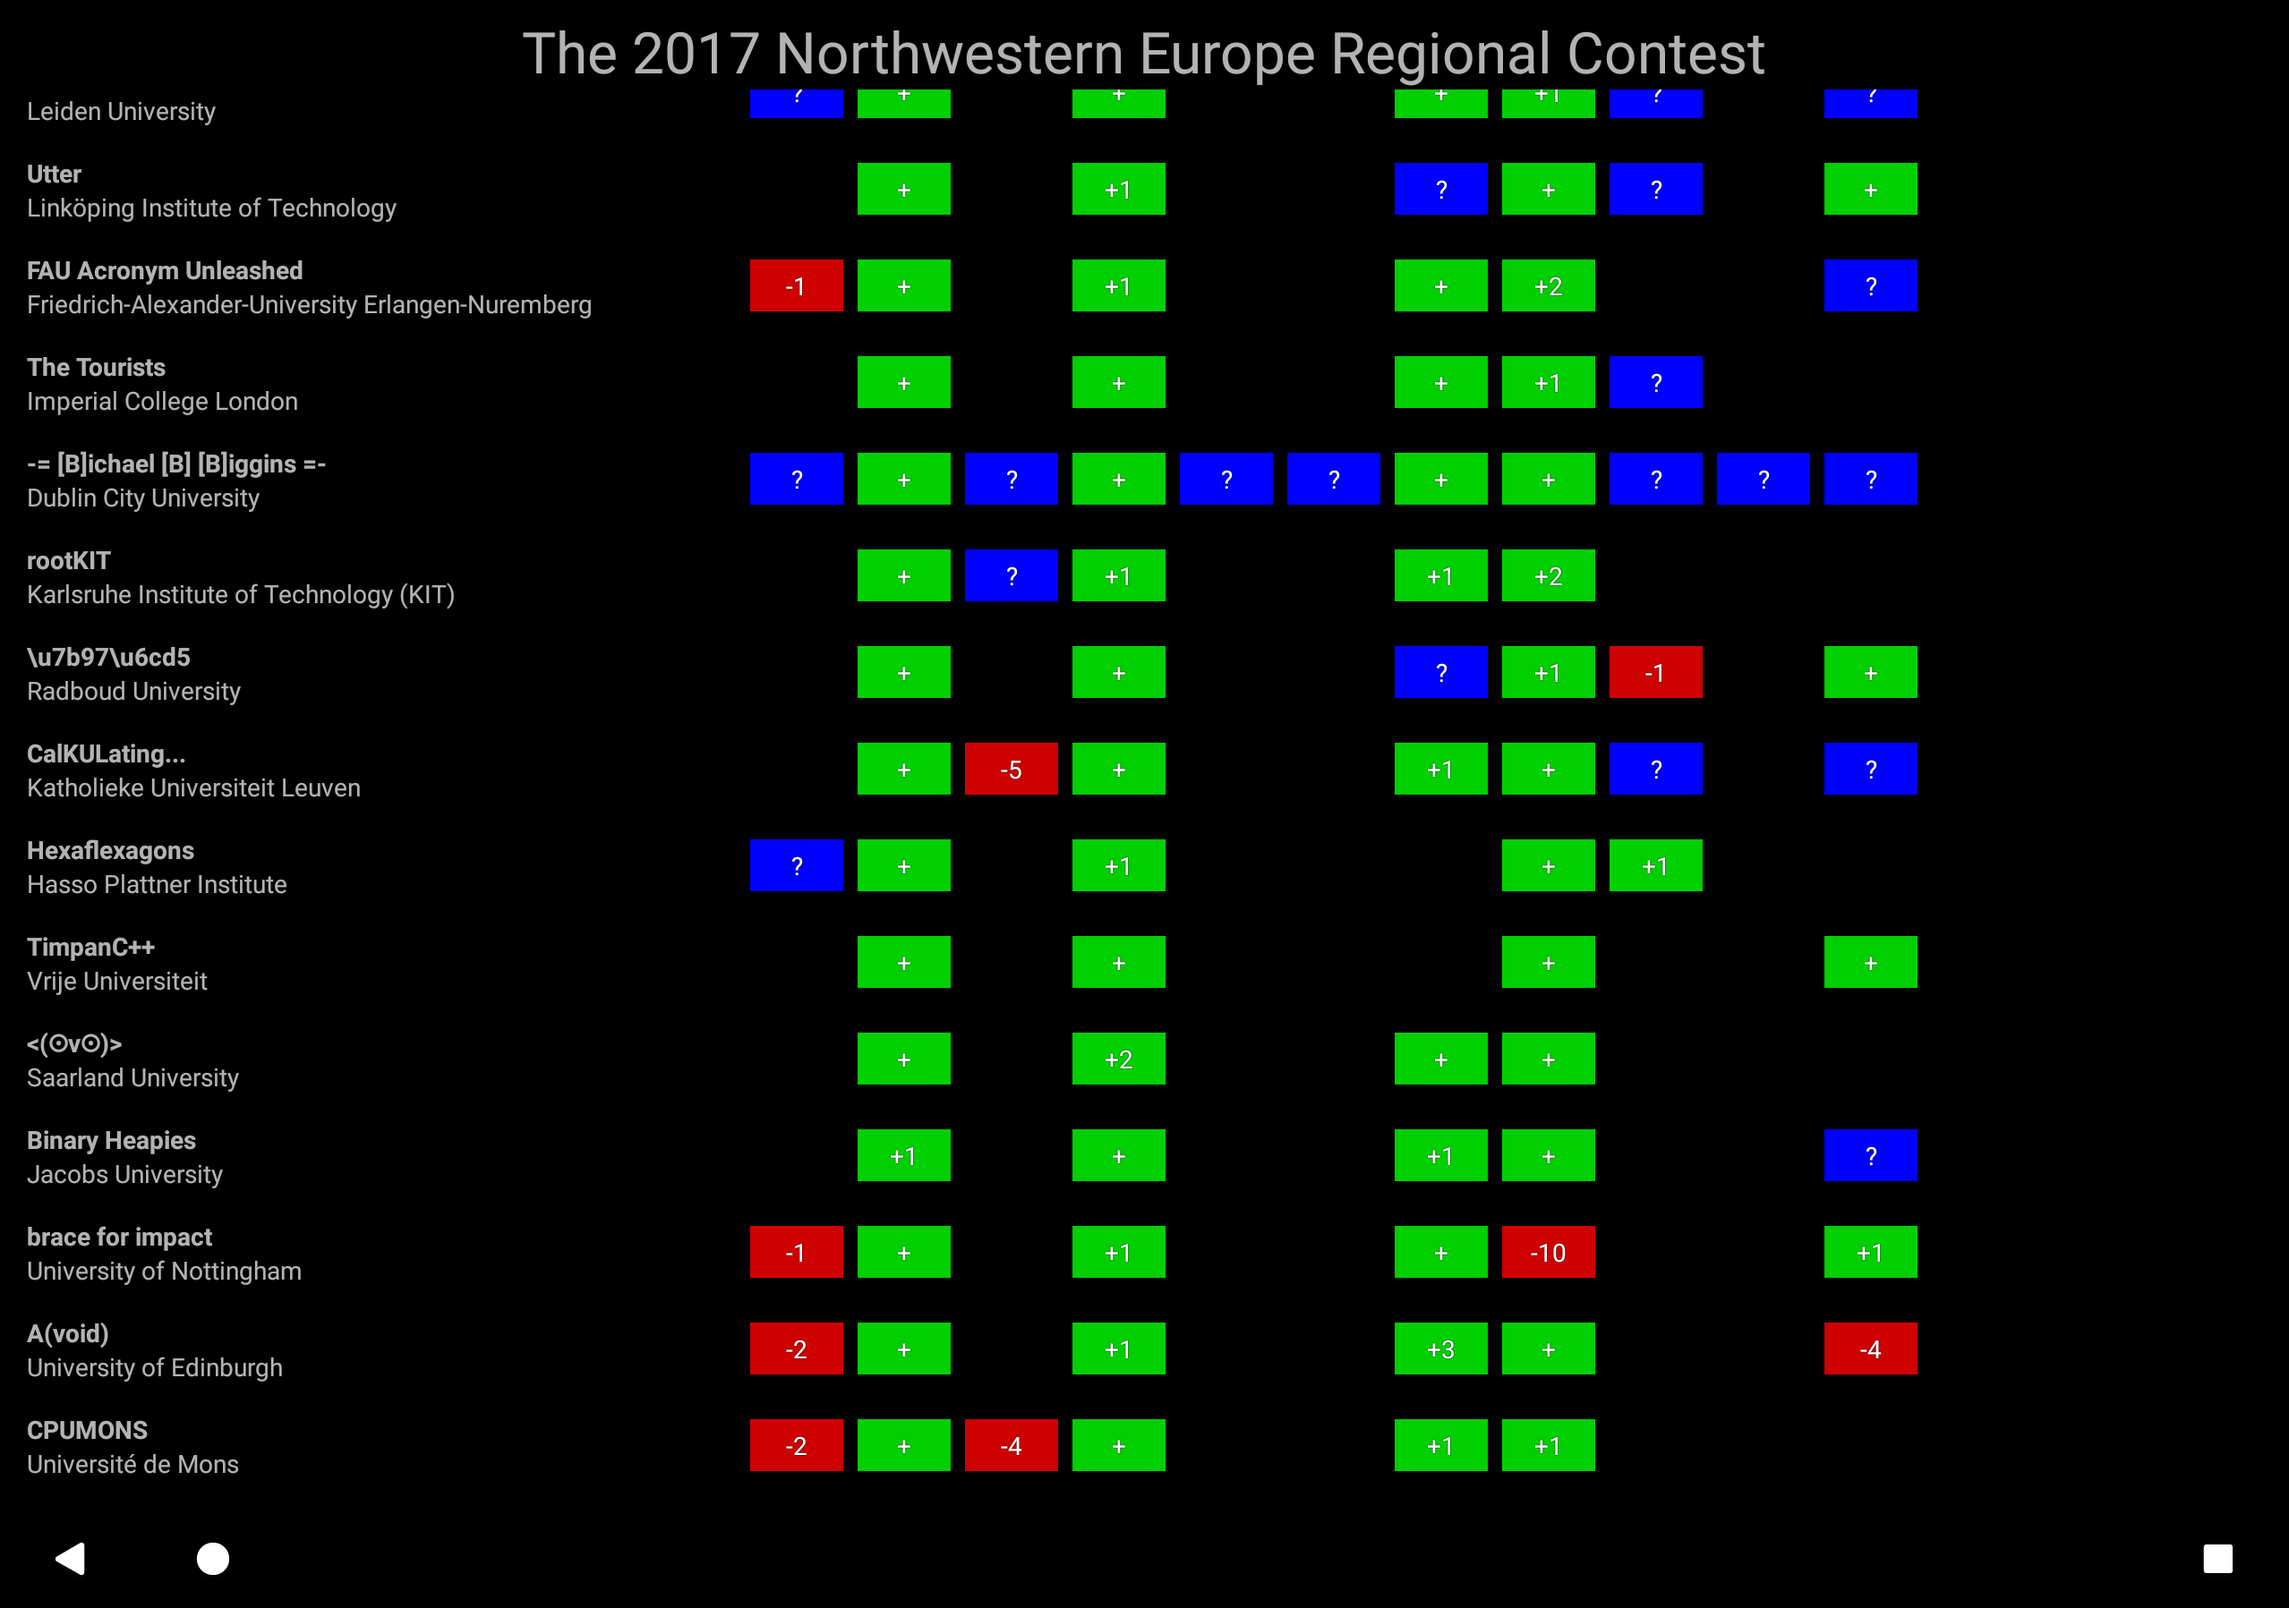
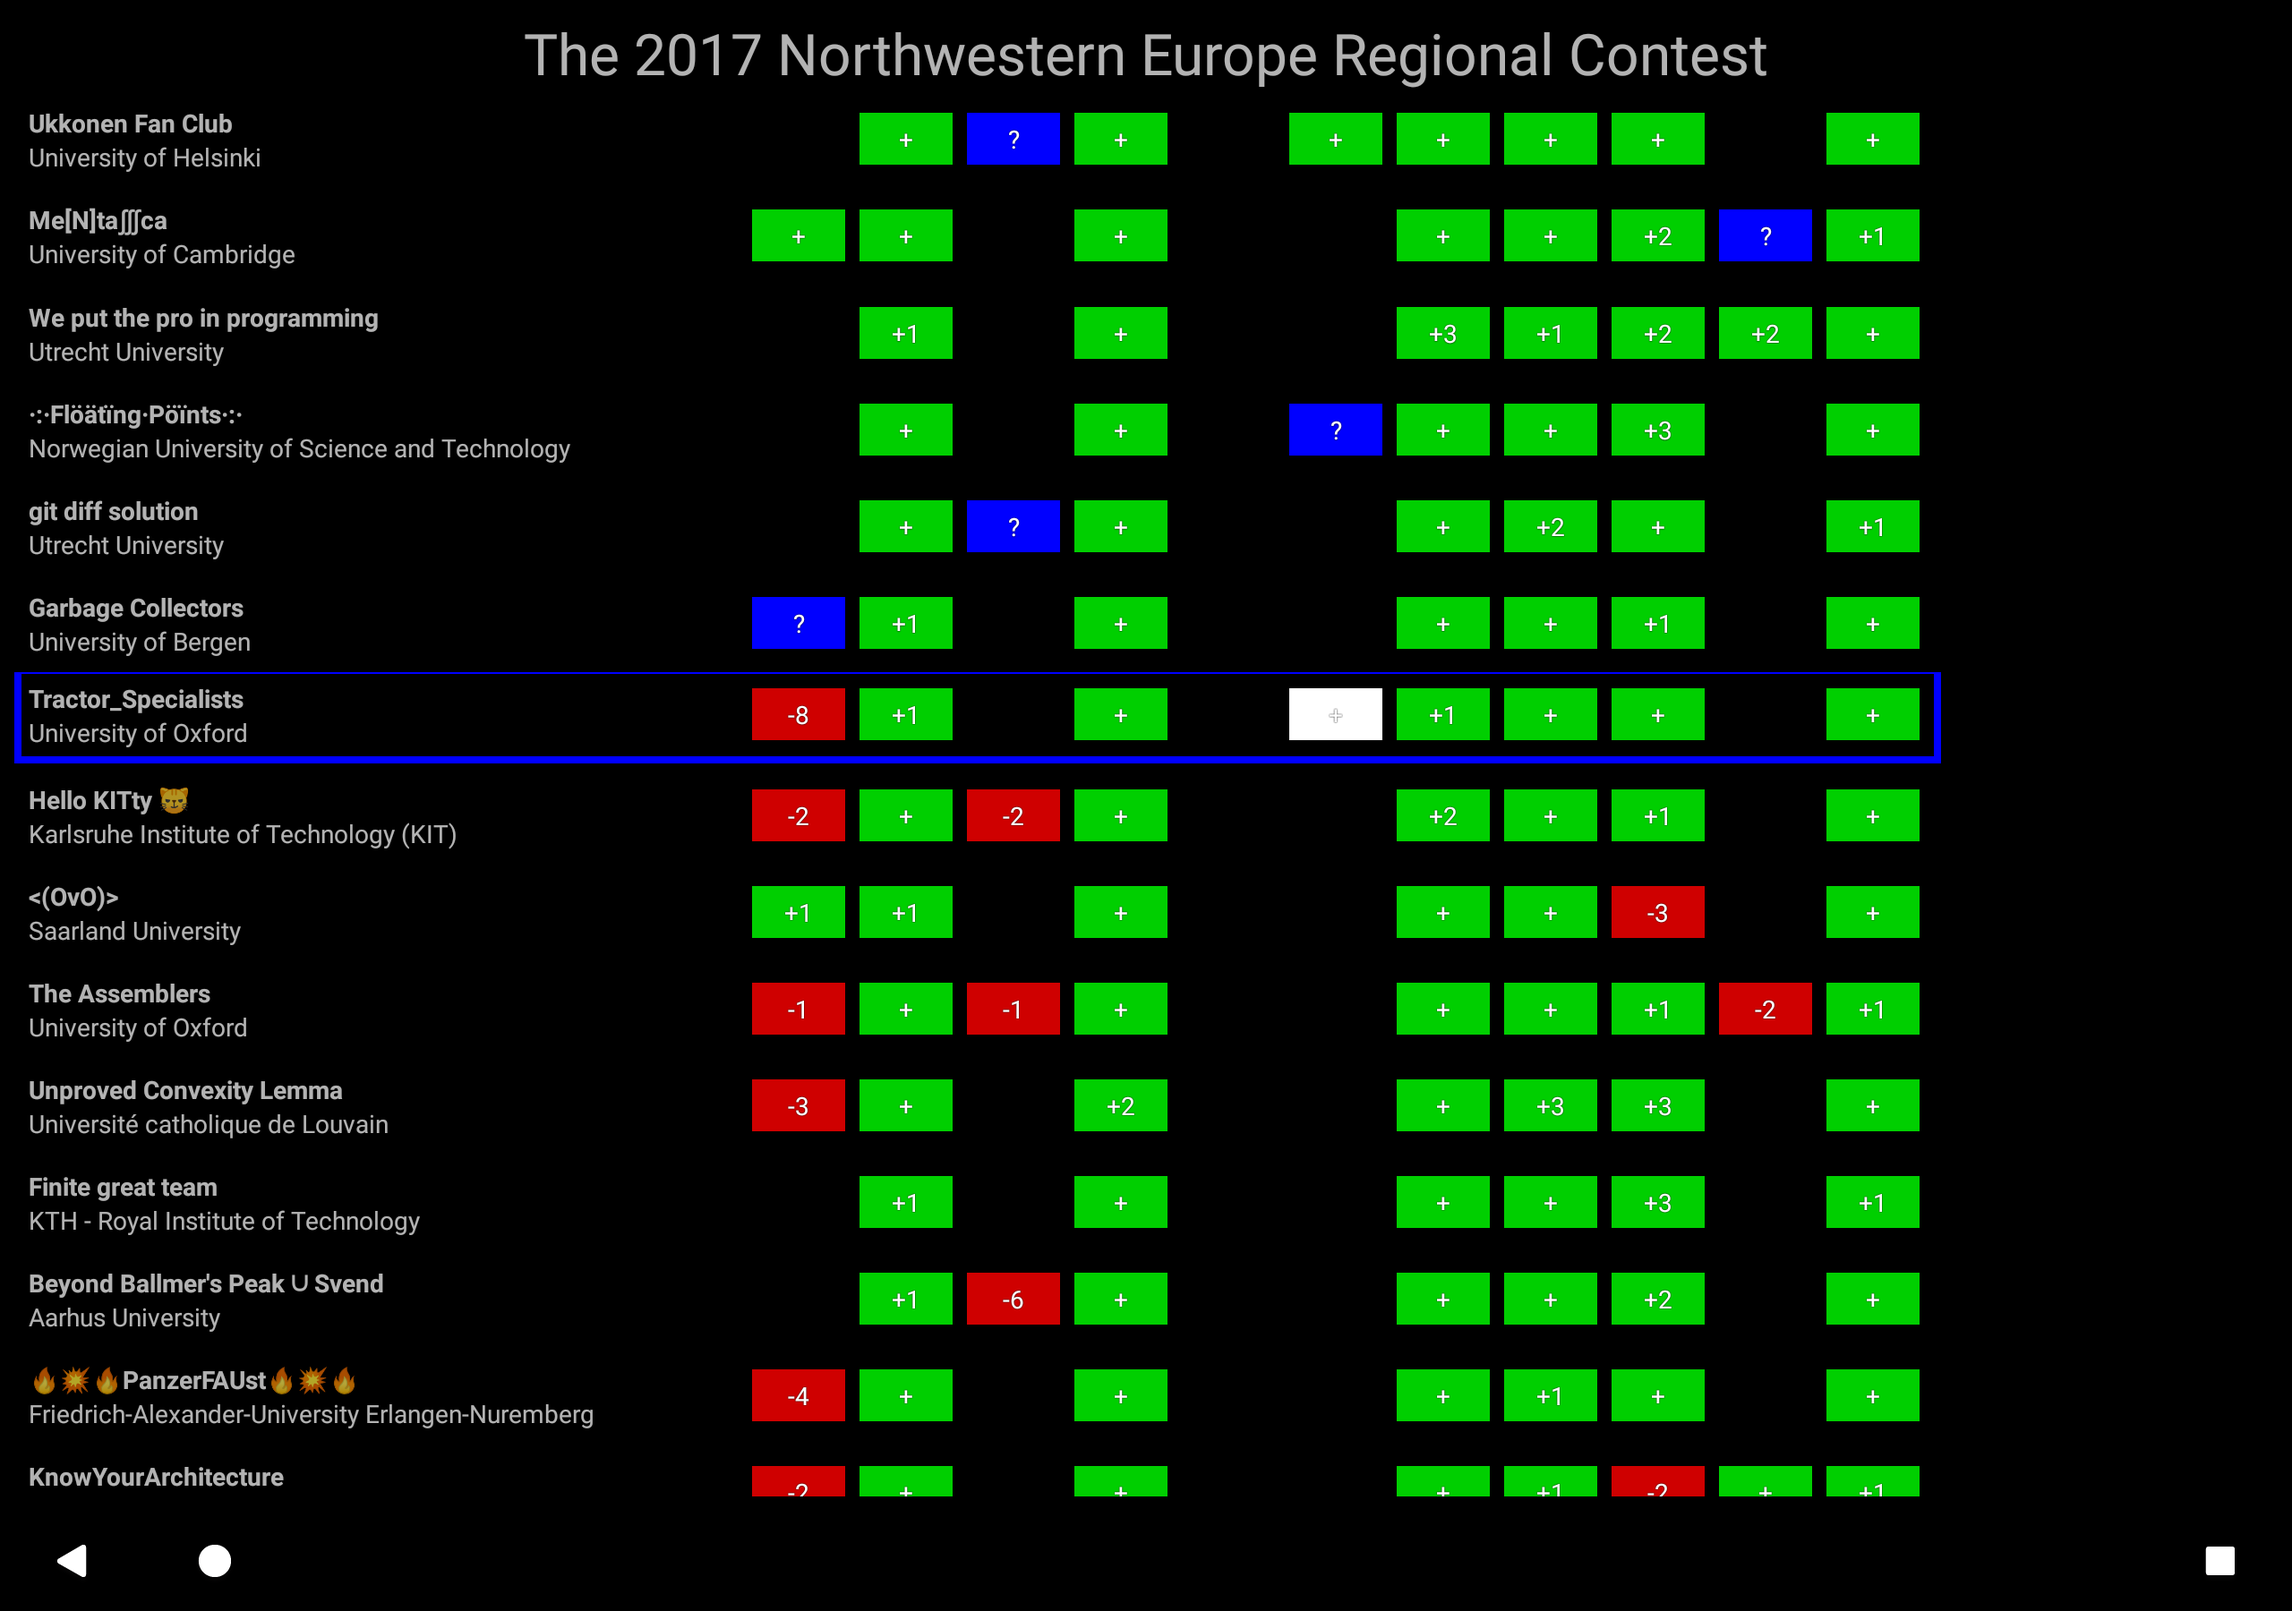
Add pending effects to android scoreboard

Changed region(s): [[0.0, 0.0312, 0.8651, 0.9349], [0.1854, 0.2493, 0.2163, 0.2805]]

diff --git a/scoreboards/android/src/java/hex539/me/app/activity/LiveScoreboardActivity.java b/scoreboards/android/src/java/hex539/me/app/activity/LiveScoreboardActivity.java
@@ -118,18 +118,15 @@ public class LiveScoreboardActivity extends Activity {
       }
     });
 
-
-    System.err.println("advanceResolver!");
     mApiHandler.post(this::advanceResolver);
   }
 
   private void advanceResolver() {
-    System.err.println("advanceResolver!!!! " + mResolverController.finished());
     if (mResolverController.finished()) {
       return;
     }
     mResolverController.advance();
-    mApiHandler.postDelayed(this::advanceResolver, 200);
+    mApiHandler.postDelayed(this::advanceResolver, 500 /* milliseconds */);
   }
 
 
@@ -210,18 +207,12 @@ public class LiveScoreboardActivity extends Activity {
 
     @Override
     public void registerAdapterDataObserver(RecyclerView.AdapterDataObserver observer) {
-//      if (mDispatcher != null && !hasObservers()) {
-//        mDispatcher.observers.add(this);
-//      }
       super.registerAdapterDataObserver(observer);
     }
 
     @Override
     public void unregisterAdapterDataObserver(RecyclerView.AdapterDataObserver observer) {
       super.unregisterAdapterDataObserver(observer);
-//      if (mDispatcher != null && !hasObservers()) {
-//        mDispatcher.observers.remove(this);
-//      }
     }
 
     // ResolverController.Observer

diff --git a/scoreboards/android/src/java/hex539/me/app/view/ScoreboardRowView.java b/scoreboards/android/src/java/hex539/me/app/view/ScoreboardRowView.java
@@ -1,5 +1,7 @@
 package me.hex539.app.view;
 
+import static android.support.v4.content.ContextCompat.getDrawable;
+
 import android.app.Activity;
 import android.content.Context;
 import android.content.Intent;
@@ -69,6 +71,13 @@ public class ScoreboardRowView extends LinearLayout {
 //    }
     problemRoot.removeAllViews();
     mProblemViews.clear();
+
+    final ViewGroup root = findViewById(R.id.row_root);
+    if (focusedProblem != null) {
+      root.setBackground(getDrawable(getContext(), R.color.row_background_focused));
+    } else {
+      root.setBackground(getDrawable(getContext(), R.color.row_background));
+    }
 
     for (ClicsProto.ScoreboardProblem p : rowInfo.getRow().getProblemsList()) {
       ScoreboardProblemView v = new ScoreboardProblemView(getContext());

diff --git a/scoreboards/android/src/java/hex539/me/app/view/ScoreboardProblemView.java b/scoreboards/android/src/java/hex539/me/app/view/ScoreboardProblemView.java
@@ -52,12 +52,6 @@ public class ScoreboardProblemView extends LinearLayout {
   }
 
   private void updateAppearance() {
-    if (mFocused) {
-      mScoreView.setTextColor(getColor(getContext(), R.color.problem_label_focused));
-    } else {
-      mScoreView.setTextColor(getColor(getContext(), R.color.problem_label));
-    }
-
     if (mProblem.getSolved()) {
       if (mProblem.getNumJudged() > 1) {
         mScoreView.setText("+" + (mProblem.getNumJudged() - 1));
@@ -74,6 +68,10 @@ public class ScoreboardProblemView extends LinearLayout {
     } else {
       mScoreView.setText(" ");
       mScoreView.setBackgroundResource(R.color.problem_unattempted);
+    }
+
+    if (mFocused) {
+      mScoreView.setBackgroundResource(R.color.problem_label_focused);
     }
   }
 }
